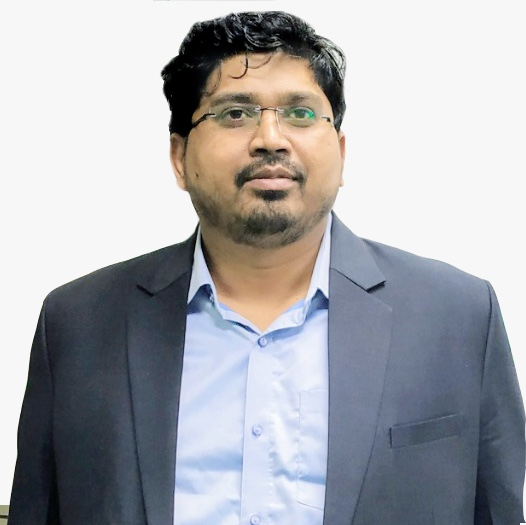
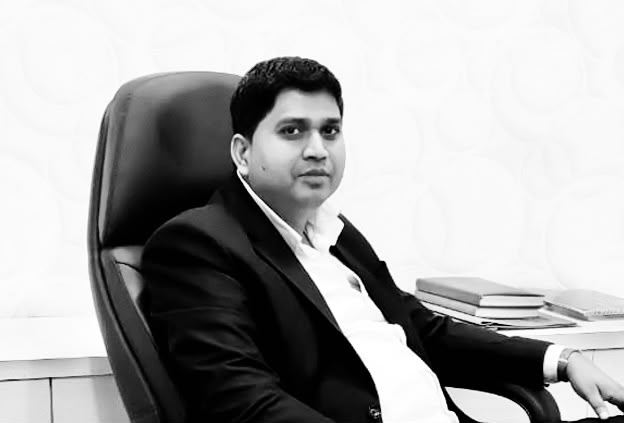
Update project

diff --git a/components/EngineeringArchitectureAnimation.tsx b/components/EngineeringArchitectureAnimation.tsx
@@ -1,11 +1,29 @@
-
 "use client";
 
 import { useEffect, useState } from "react";
 import Lottie from "lottie-react";
 
+// Lottie JSON ka minimum structure jo hum validate karte hain
+type LottieAnimationData = {
+  layers: unknown[];
+  fr: number;
+  op: number;
+  [key: string]: unknown;
+};
+
+const ANIMATION_URL = "/lotties/engineering-architecture.json";
+
+function isValidLottie(data: unknown): data is LottieAnimationData {
+  if (typeof data !== "object" || data === null) return false;
+
+  const d = data as Record<string, unknown>;
+
+  return Array.isArray(d.layers) && !!d.fr && !!d.op;
+}
+
 export default function EngineeringArchitectureAnimation() {
-  const [animationData, setAnimationData] = useState<any>(null);
+  const [animationData, setAnimationData] =
+    useState<LottieAnimationData | null>(null);
   const [error, setError] = useState("");
 
   useEffect(() => {
@@ -13,18 +31,15 @@ export default function EngineeringArchitectureAnimation() {
 
     async function loadAnimation() {
       try {
-      const response = await fetch(
-  "/lotties/engineering-architecture.json",
-  { cache: "no-store" }
-);
+        const response = await fetch(ANIMATION_URL, { cache: "no-store" });
 
         if (!response.ok) {
           throw new Error(`JSON loading failed: ${response.status}`);
         }
 
-        const data = await response.json();
+        const data: unknown = await response.json();
 
-        if (!data.layers || !data.fr || !data.op) {
+        if (!isValidLottie(data)) {
           throw new Error("Invalid Lottie JSON structure");
         }
 
@@ -33,9 +48,7 @@ export default function EngineeringArchitectureAnimation() {
         console.error("Lottie Error:", err);
 
         if (mounted) {
-          setError(
-            err instanceof Error ? err.message : "Animation failed"
-          );
+          setError(err instanceof Error ? err.message : "Animation failed");
         }
       }
     }
@@ -49,7 +62,7 @@ export default function EngineeringArchitectureAnimation() {
 
   if (error) {
     return (
-      <div className="h-full flex items-center justify-center text-red-400 text-sm">
+      <div className="flex h-full items-center justify-center text-sm text-red-400">
         Animation Error: {error}
       </div>
     );
@@ -57,7 +70,7 @@ export default function EngineeringArchitectureAnimation() {
 
   if (!animationData) {
     return (
-      <div className="h-full flex items-center justify-center text-white/50 text-sm">
+      <div className="flex h-full items-center justify-center text-sm text-white/50">
         Loading architecture...
       </div>
     );
@@ -68,7 +81,7 @@ export default function EngineeringArchitectureAnimation() {
       animationData={animationData}
       loop
       autoplay
-      className="w-full h-full"
+      className="h-full w-full"
     />
   );
 }

diff --git a/components/section/general/footer.tsx b/components/section/general/footer.tsx
@@ -243,8 +243,11 @@ import {
   footer,
   footerSections,
   footerMegaMenus,
+  type FooterLink,
+  type FooterSection,
 } from "@/components/data/footer";
 import { getTechnologiesSubMenuItems } from "@/components/data/header";
+
 
 // API Imports
 import { ForTechnologiesPageAPI } from "@/lib/services/api";
@@ -271,21 +274,22 @@ export default async function Footer() {
   const technologiesSubMenuItems =
     getTechnologiesSubMenuItems(technologiesDynamicLinks);
 
-  const footerData = {
+  const footerData: Record<string, FooterSection> = {
     ...footerSections,
     ConsultingAndSolutions: {
       heading: "Consulting & Solutions",
       links: technologiesSubMenuItems.links.map(
-        (item) => [item.label, item.href] as const
+        (item): FooterLink => [item.label, item.href]
       ),
     },
   };
 
   const sections = footer.dynamicLinks
-    .map((key) => ({
-      key,
-      heading: footerData[key].heading,
-      links: footerData[key].links,
+    .map((key) => footerData[key])
+    .map((section, i) => ({
+      key: footer.dynamicLinks[i] as string,
+      heading: section?.heading ?? "",
+      links: section?.links ?? [],
     }))
     .filter((s) => s.links.length > 0);
 

diff --git a/components/about/AboutShell.tsx b/components/about/AboutShell.tsx
@@ -82,7 +82,7 @@ export default function AboutShell({
       <span className="hyi-orb b" style={orb(-60, -0.16)} />
       <span className="hyi-orb c" style={orb(35, -0.06)} />
 
-      <div className="relative z-10 mx-auto w-full max-w-6xl px-4  sm:px-6">
+      <div className="relative z-10 mx-auto w-full max-w-7xl px-4  sm:px-6">
         <Header/>
         {/* Floating glass + neumorphic tab bar */}
         {/* <nav
@@ -126,7 +126,7 @@ export default function AboutShell({
         {children}
 
         {/* Next / Prev */}
-        <Reveal>
+        {/* <Reveal>
           <hr className="hyi-line my-10" />
           <div className="grid items-center gap-6 md:grid-cols-[auto_1fr]">
             {prev ? (
@@ -145,7 +145,7 @@ export default function AboutShell({
               </Card>
             </Link>
           </div>
-        </Reveal>
+        </Reveal> */}
        
       </div>
        <Footer/>

diff --git a/components/shared/FooterNav.tsx b/components/shared/FooterNav.tsx
@@ -231,7 +231,7 @@ export default function FooterNav({ sections, megaMenus }: Props) {
           {currentMenu && currentGroup && (
             // pb-3 = hover bridge, taaki button se popup tak mouse le jaane par band na ho
             <div className="absolute bottom-full left-0 right-0 z-50 pb-3">
-              <div className="flex h-[min(70vh,560px)] flex-col overflow-hidden rounded-2xl border border-white/10 bg-black/95 shadow-2xl backdrop-blur-md">
+              <div className="flex h-[min(60vh,560px)] flex-col overflow-hidden rounded-2xl border border-white/10 bg-black/95 shadow-2xl backdrop-blur-md">
                 {/* Fixed header (scroll nahi hota) */}
                 <div className="shrink-0 border-b border-white/10 px-6 py-5">
                   <h3 className="text-lg font-semibold text-dark_mode-100">

diff --git a/app/about/page.tsx b/app/about/page.tsx
@@ -371,7 +371,7 @@
 // npm i framer-motion
 import { useEffect, useRef, useState } from "react";
 import Image from "next/image";
-import { Fraunces } from "next/font/google";
+import "@fontsource-variable/fraunces";
 import {
   AnimatePresence, MotionConfig, animate, motion,
   useInView, useScroll, useTransform, type MotionValue,
@@ -379,7 +379,7 @@ import {
 import Header from "@/components/section/general/header";
 import Footer from "@/components/section/general/footer";
  
-const display = Fraunces({ subsets: ["latin"], weight: ["400", "600"] });
+const display = { className: "font-fraunces" };
 const grad = "bg-gradient-to-r from-[#FCCB90] to-[#D57EEB] bg-clip-text text-transparent";
 const ease = [0.22, 1, 0.36, 1] as const;
 const card = "rounded-3xl border border-white/10 bg-white/[0.04] backdrop-blur";

diff --git a/components/shared/customMultiTypingHeading.tsx b/components/shared/customMultiTypingHeading.tsx
@@ -319,14 +319,12 @@
 
 import React, { useEffect, useState } from "react";
 import { motion, AnimatePresence } from "framer-motion";
-import { DM_Sans } from "next/font/google";
+import "@fontsource-variable/dm-sans";
 
-const headingFont = DM_Sans({
-  subsets: ["latin"],
-  weight: ["400", "500", "600", "700", "800"],
-  display: "swap",
-  variable: "--font-hostinger",
-});
+const headingFont = {
+  className: "",
+  variable: "",
+};
 
 /**
  * Shared line styles (also used by the SSR fallback in typingAnimation.tsx)

diff --git a/app/globals.css b/app/globals.css
@@ -44,6 +44,7 @@
 }
 
 :root {
+   --font-hostinger: "DM Sans Variable", sans-serif;
   --radius: 0.625rem;
   --background: rgb(255, 255, 255);
   --foreground: rgb(10, 10, 10);
@@ -428,6 +429,9 @@
   border: none;
   outline: none;
   box-shadow: none;
+}
+.font-fraunces {
+  font-family: "Fraunces Variable", serif;
 }
 
 .tabs-trigger {
